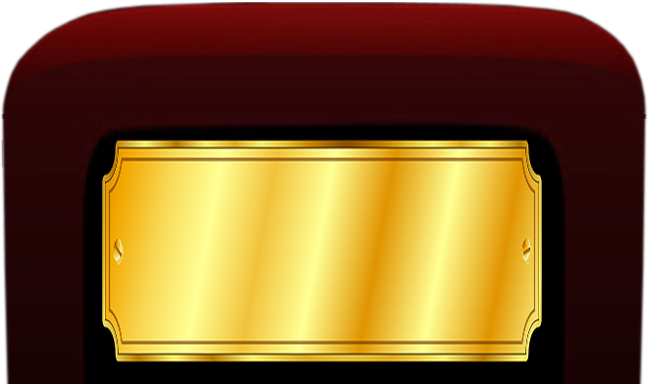
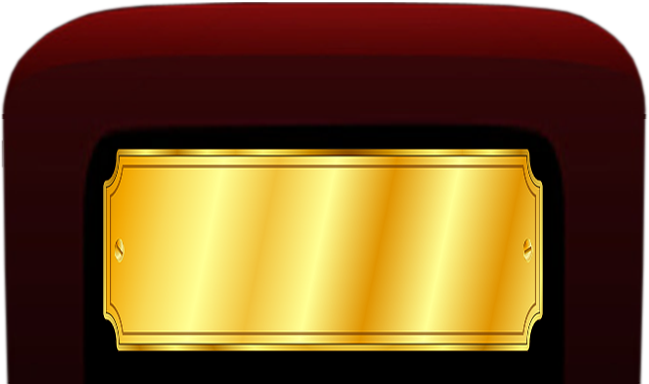
Fine-tune chair button responsiveness across multiple viewports

Changed region(s): [[0.1541, 0.3438, 0.832, 0.9688]]

diff --git a/public/script/index.js b/public/script/index.js
@@ -100,6 +100,7 @@ function testProtected() {
 
 function renderChairButtons(home) {
   console.log('renderChairButtons() ran')
+  let mediaQuery = window.matchMedia("(max-width: 500px) and (orientation: portrait)")
   $('.chair-button-wrapper').empty()
   $('.chair-button-wrapper').html(
     `<div class="chair inline"></div>
@@ -128,9 +129,15 @@ function renderChairButtons(home) {
   <div class="chair inline"></div>
   <div class="chair inline"></div>
   <div class="chair inline"></div>
-  <script>$('.chair-buttons').fadeIn();
-  $('.chair-plaque').fitText();</script>`
+  <script>$('.chair-buttons').fadeIn();</script>`
   )
+  if (mediaQuery.matches) {
+  // Use larger font size for phone screens in portrait mode:
+    $('.chair-plaque').fitText(1, 'compressor * 8')
+  } else {
+  // Use smaller font size:
+    $('.chair-plaque').fitText()
+  }
 }
 
 function aboutRevuer() {
@@ -256,12 +263,13 @@ function manageWindowResize() {
   $('.video-screen').css({'height': `calc(${initialMainContainerWidth} * .5625)`})
   $('.chair-button-wrapper').css({'transform': `translateX(calc((${initialChairWidth} * 15 - 100vw)* -.5))`})
   $('.film-button-wrapper').css({'width': `calc(${initialFilmButtonWidth} * 18)`,'transform': `translateX(calc(((${initialFilmButtonWidth} * 18) - 100vw)* -.5))`})
-// update values if window resized:
+// Update values if window resized:
   window.onresize = function() {
     console.log("Window size changed... resizing theater")
-    let mainContainerWidth = $('.main-container').css('width')
+    $('.chair-buttons').css({"display": "block"}) 
+    // Chairs must be visible to obtain accurate .css('width')
     let chairWidth = $('.chair').css('width')
-    let mediaQuery = window.matchMedia("(max-width: 500px)")
+    let mainContainerWidth = $('.main-container').css('width')
     let filmButtonWidth = (mediaQuery.matches) ? "33vw" : "12rem"
     $('.video-screen').css({'height': `calc(${mainContainerWidth} * .5625)`})
     $('.chair-button-wrapper').css({'transform': `translateX(calc((${chairWidth} * 15 - 100vw)* -.5))`})
@@ -275,8 +283,9 @@ function hideChairs() {
   let lastScrollPosition = 0
   let showChairs = function() {
     console.log('showing chairs')
-    $('.chair-buttons').fadeIn()
-    }
+    $('.chair-buttons').css({"display": "block"}) 
+    renderChairButtons()  // Force re-draw of chair buttons
+  }
   $(window).scroll(function() {
     let mediaQuery = window.matchMedia("(max-height: 700px) and (orientation: landscape)")
     let currentScroll = $(this).scrollTop()

diff --git a/public/style/index.css b/public/style/index.css
@@ -161,6 +161,26 @@ nav {
   font-weight: bolder;
   padding-top: 2.4em;
 }
+@media only screen and (max-width: 500px) and (orientation: portrait) {
+/* For phone portrait */
+  .chair {
+    height: calc(20rem / 1.7);
+    max-height: calc(33vw / 1.7);
+    background:url(../image/chair-taller-a1.png) 0 0 no-repeat;
+    background-size: 100%;
+  }
+  .chair-plaque {
+    height: calc(20rem / 1.7);
+    max-height: calc(33vw / 1.7);
+    background:url(../image/chair-taller-plaque-a1.png) 0 0 no-repeat;
+    background-size: 100%;
+    padding-top: 1.2em;
+    padding-left: 1.2em;
+    padding-right: 1.2em;
+    white-space: normal;
+  }
+}
+
 .inline {
   display: inline-block;
 }
